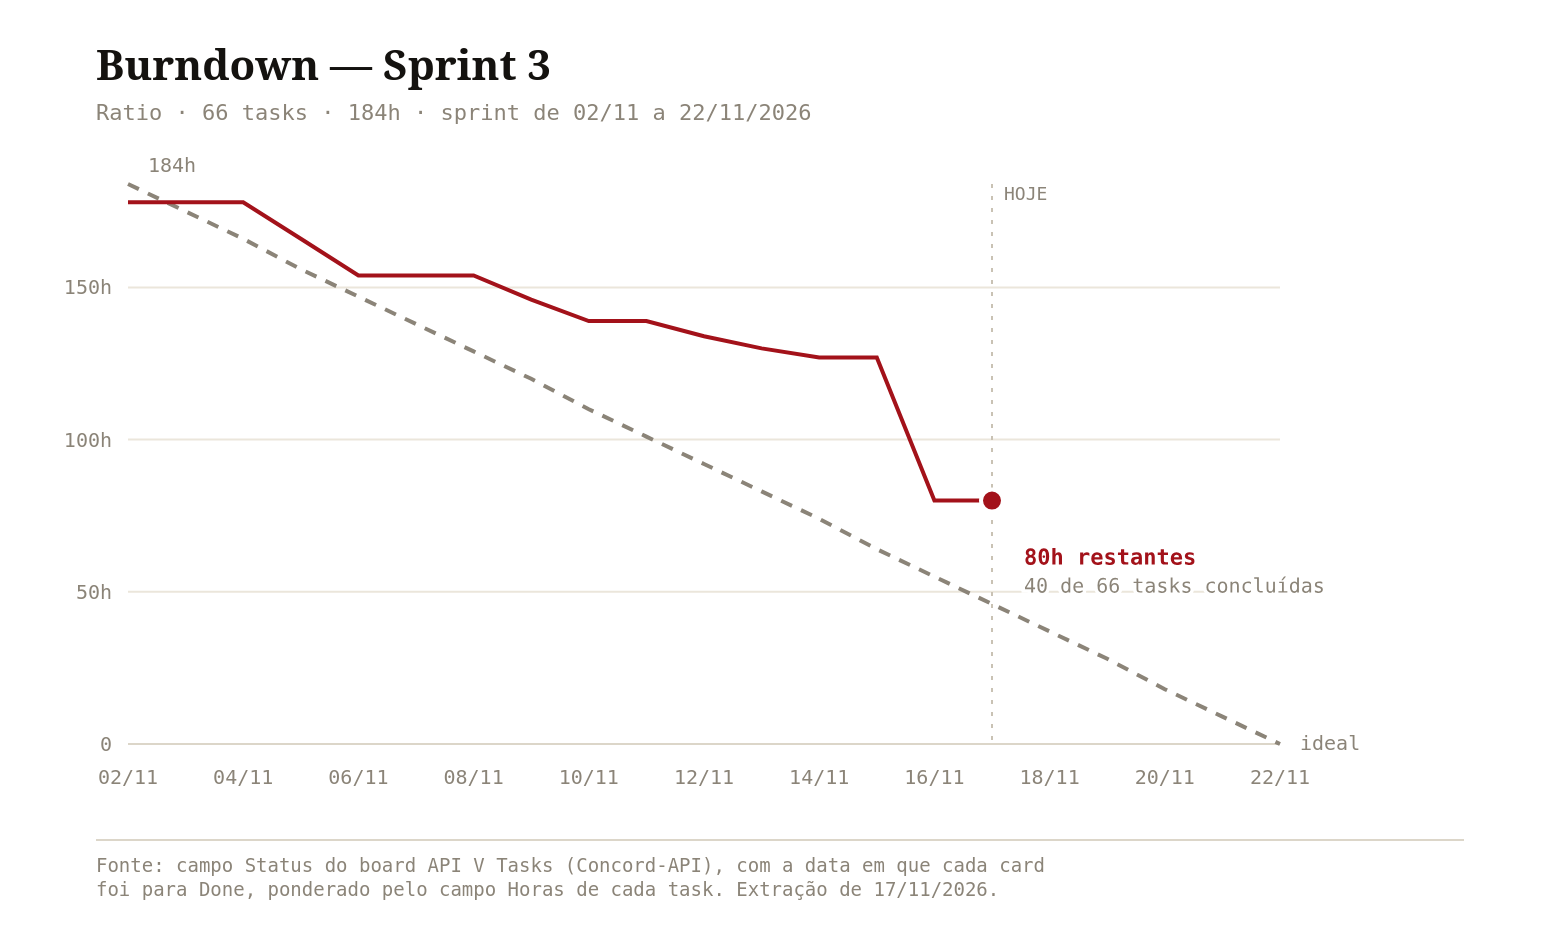
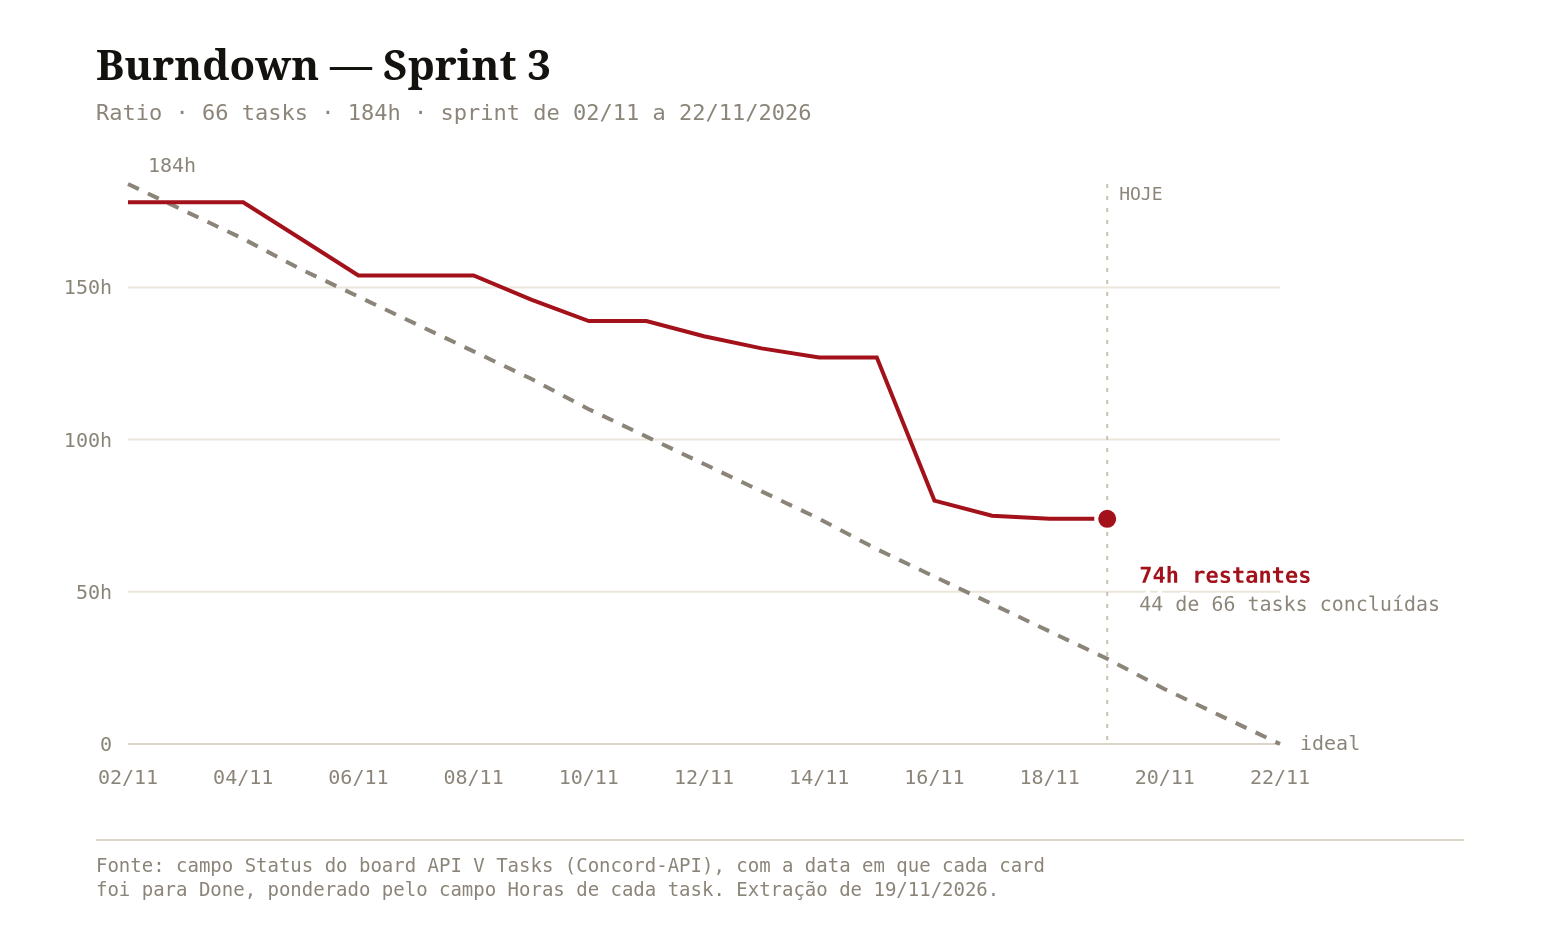
docs: update the Sprint 3 backlog from the board

diff --git a/sprint3/sprint-backlog_pt.md b/sprint3/sprint-backlog_pt.md
@@ -2,7 +2,7 @@
 
 **Janela:** 02/11 a 22/11/2026
 
-**Board:** [GitHub Project](https://github.com/orgs/Concord-API/projects/5) · snapshot de 17/11/2026
+**Board:** [GitHub Project](https://github.com/orgs/Concord-API/projects/5) · snapshot de 19/11/2026
 
 **Definições:** [Definition of Ready](../Docs/pt_br/Scrum/definition-of-ready.md) · [Definition of Done](../Docs/pt_br/Scrum/definition-of-done.md)
 
@@ -34,8 +34,8 @@ Stories planejadas na sprint, mas que podem passar para a próxima se não houve
 | --- | ---: |
 | Stories (meta / fora da meta) | 4 / 2 |
 | Story points (meta / total) | 26 / 34 |
-| Tasks (concluídas / total) | 40 / 66 |
-| Horas (feitas / total) | 104h / 184h |
+| Tasks (concluídas / total) | 44 / 66 |
+| Horas (feitas / total) | 110h / 184h |
 | Tasks em stories | 39 (99h) |
 | Technical Foundation | 2 (10h) |
 | Entrega e processo | 25 (75h) |
@@ -44,10 +44,10 @@ Stories planejadas na sprint, mas que podem passar para a próxima se não houve
 
 | Responsável | Tasks | Horas | Concluído |
 | --- | ---: | ---: | ---: |
-| sem responsável | 18 | 53h | 0h |
 | thiagosabreu | 19 | 49h | 37h |
-| JoaoBaranov | 8 | 29h | 29h |
-| IsaacOliveiraSouza | 9 | 24h | 19h |
+| sem responsável | 14 | 47h | 0h |
+| JoaoBaranov | 10 | 31h | 31h |
+| IsaacOliveiraSouza | 11 | 28h | 23h |
 | RichardCordeiro | 7 | 15h | 15h |
 | vp-p | 2 | 7h | 0h |
 | joaoandrade17 | 2 | 4h | 1h |
@@ -60,15 +60,15 @@ Stories planejadas na sprint, mas que podem passar para a próxima se não houve
 | ETL | 51h | 14h |
 | DevOps | 49h | 36h |
 | Backend | 30h | 27h |
-| Frontend | 24h | 14h |
-| Test | 21h | 12h |
+| Frontend | 24h | 19h |
+| Test | 21h | 13h |
 | Docs | 9h | 1h |
 
 ## Burndown
 
 ![Burndown da Sprint 3](burndown.png)
 
-Horas restantes por dia, a partir do campo `Status` do board e das horas de cada task. Situação em 17/11/2026.
+Horas restantes por dia, a partir do campo `Status` do board e das horas de cada task. Situação em 19/11/2026.
 
 ## Stories e tasks
 
@@ -106,7 +106,7 @@ Issue: [#329](https://github.com/Concord-API/API-5/issues/329)
 
 ### US-40 — Como usuário, quero ver os julgados que compõem a jurisprudência do tema, com tribunal, órgão julgador, data, ementa e link para a página do tribunal, no mesmo padrão de tabela dos processos, para ler como os tribunais decidiram e não apenas contar os casos
 
-_8 SP · Should · A fazer · 4/8 tasks · 23h_
+_8 SP · Should · A fazer · 6/8 tasks · 23h_
 
 Issue: [#330](https://github.com/Concord-API/API-5/issues/330)
 
@@ -117,13 +117,13 @@ Issue: [#330](https://github.com/Concord-API/API-5/issues/330)
 | [40.3](https://github.com/Concord-API/API-5/issues/356) | Tie each ruling to the topic by CNJ number or by declared similarity | ETL | — | 4h | A fazer |
 | [40.4](https://github.com/Concord-API/API-5/issues/357) | Expose the topic's rulings with "N of M", source and extraction date | Backend | JoaoBaranov | 3h | Concluído |
 | [40.5](https://github.com/Concord-API/API-5/issues/358) | Build the rulings table in the Base analítica tab | Frontend | JoaoBaranov | 3h | Concluído |
-| [40.6](https://github.com/Concord-API/API-5/issues/359) | Explain in the block why a court has no rulings | Frontend | — | 1h | A fazer |
-| [40.7](https://github.com/Concord-API/API-5/issues/360) | Test the rulings ordering and the court without a source | Test | — | 1h | A fazer |
+| [40.6](https://github.com/Concord-API/API-5/issues/359) | Explain in the block why a court has no rulings | Frontend | JoaoBaranov | 1h | Concluído |
+| [40.7](https://github.com/Concord-API/API-5/issues/360) | Test the rulings ordering and the court without a source | Test | JoaoBaranov | 1h | Concluído |
 | [40.8](https://github.com/Concord-API/API-5/issues/361) | Document the rulings source in the ETL docs | Docs | IsaacOliveiraSouza | 1h | Em andamento |
 
 ### US-41 — Como usuário, quero ver os precedentes qualificados relacionados ao tema — súmulas, temas repetitivos, IRDR, IAC e repercussão geral —, com tipo, número, tribunal, tese e situação, para saber o que vincula os tribunais neste tema e não apenas como eles têm decidido
 
-_8 SP · Should · A fazer · 2/8 tasks · 21h_
+_8 SP · Should · A fazer · 4/8 tasks · 21h_
 
 Issue: [#331](https://github.com/Concord-API/API-5/issues/331)
 
@@ -133,8 +133,8 @@ Issue: [#331](https://github.com/Concord-API/API-5/issues/331)
 | [41.2](https://github.com/Concord-API/API-5/issues/363) | Add type, status date, suspension and leading cases to the precedent dimension | Backend | thiagosabreu | 3h | Concluído |
 | [41.3](https://github.com/Concord-API/API-5/issues/364) | Tie each precedent to the topic by similarity over question and thesis | ETL | — | 4h | A fazer |
 | [41.4](https://github.com/Concord-API/API-5/issues/365) | Expose the topic's related precedents | Backend | thiagosabreu | 2h | Concluído |
-| [41.5](https://github.com/Concord-API/API-5/issues/366) | Build the precedents block with cancelled ones marked | Frontend | — | 3h | A fazer |
-| [41.6](https://github.com/Concord-API/API-5/issues/367) | Explain in the block why a topic has no related precedent | Frontend | — | 1h | A fazer |
+| [41.5](https://github.com/Concord-API/API-5/issues/366) | Build the precedents block with cancelled ones marked | Frontend | IsaacOliveiraSouza | 3h | Concluído |
+| [41.6](https://github.com/Concord-API/API-5/issues/367) | Explain in the block why a topic has no related precedent | Frontend | IsaacOliveiraSouza | 1h | Concluído |
 | [41.7](https://github.com/Concord-API/API-5/issues/368) | Test that labour and electoral precedents are not loaded | Test | — | 1h | A fazer |
 | [41.8](https://github.com/Concord-API/API-5/issues/369) | Document the precedents source in the ETL docs | Docs | — | 1h | A fazer |
 

diff --git a/sprint3/sprint-backlog.md b/sprint3/sprint-backlog.md
@@ -2,7 +2,7 @@
 
 **Window:** Nov 2 to Nov 22, 2026
 
-**Board:** [GitHub Project](https://github.com/orgs/Concord-API/projects/5) · snapshot of Nov 17, 2026
+**Board:** [GitHub Project](https://github.com/orgs/Concord-API/projects/5) · snapshot of Nov 19, 2026
 
 **Definitions:** [Definition of Ready](../Docs/Scrum/definition-of-ready.md) · [Definition of Done](../Docs/Scrum/definition-of-done.md)
 
@@ -34,8 +34,8 @@ Stories planned in the sprint that can move to the next one if there is not enou
 | --- | ---: |
 | Stories (goal / outside the goal) | 4 / 2 |
 | Story points (goal / total) | 26 / 34 |
-| Tasks (done / total) | 40 / 66 |
-| Hours (done / total) | 104h / 184h |
+| Tasks (done / total) | 44 / 66 |
+| Hours (done / total) | 110h / 184h |
 | Tasks in stories | 39 (99h) |
 | Technical Foundation | 2 (10h) |
 | Delivery and process | 25 (75h) |
@@ -44,10 +44,10 @@ Stories planned in the sprint that can move to the next one if there is not enou
 
 | Assignee | Tasks | Hours | Done |
 | --- | ---: | ---: | ---: |
-| unassigned | 18 | 53h | 0h |
 | thiagosabreu | 19 | 49h | 37h |
-| JoaoBaranov | 8 | 29h | 29h |
-| IsaacOliveiraSouza | 9 | 24h | 19h |
+| unassigned | 14 | 47h | 0h |
+| JoaoBaranov | 10 | 31h | 31h |
+| IsaacOliveiraSouza | 11 | 28h | 23h |
 | RichardCordeiro | 7 | 15h | 15h |
 | vp-p | 2 | 7h | 0h |
 | joaoandrade17 | 2 | 4h | 1h |
@@ -60,15 +60,15 @@ Stories planned in the sprint that can move to the next one if there is not enou
 | ETL | 51h | 14h |
 | DevOps | 49h | 36h |
 | Backend | 30h | 27h |
-| Frontend | 24h | 14h |
-| Test | 21h | 12h |
+| Frontend | 24h | 19h |
+| Test | 21h | 13h |
 | Docs | 9h | 1h |
 
 ## Burndown
 
 ![Sprint 3 burndown](burndown.png)
 
-Remaining hours per day, from the board's `Status` field and each task's hours. Status on Nov 17, 2026.
+Remaining hours per day, from the board's `Status` field and each task's hours. Status on Nov 19, 2026.
 
 ## Stories and tasks
 
@@ -106,7 +106,7 @@ Issue: [#329](https://github.com/Concord-API/API-5/issues/329)
 
 ### US-40 — As a user, I want to see the rulings that make up the topic's case law, with court, judging body, date, summary and a link to the court's page, in the same table pattern as the cases, so that I can read how the courts decided and not only count the cases
 
-_8 SP · Should · To do · 4/8 tasks · 23h_
+_8 SP · Should · To do · 6/8 tasks · 23h_
 
 Issue: [#330](https://github.com/Concord-API/API-5/issues/330)
 
@@ -117,13 +117,13 @@ Issue: [#330](https://github.com/Concord-API/API-5/issues/330)
 | [40.3](https://github.com/Concord-API/API-5/issues/356) | Tie each ruling to the topic by CNJ number or by declared similarity | ETL | — | 4h | To do |
 | [40.4](https://github.com/Concord-API/API-5/issues/357) | Expose the topic's rulings with "N of M", source and extraction date | Backend | JoaoBaranov | 3h | Done |
 | [40.5](https://github.com/Concord-API/API-5/issues/358) | Build the rulings table in the Base analítica tab | Frontend | JoaoBaranov | 3h | Done |
-| [40.6](https://github.com/Concord-API/API-5/issues/359) | Explain in the block why a court has no rulings | Frontend | — | 1h | To do |
-| [40.7](https://github.com/Concord-API/API-5/issues/360) | Test the rulings ordering and the court without a source | Test | — | 1h | To do |
+| [40.6](https://github.com/Concord-API/API-5/issues/359) | Explain in the block why a court has no rulings | Frontend | JoaoBaranov | 1h | Done |
+| [40.7](https://github.com/Concord-API/API-5/issues/360) | Test the rulings ordering and the court without a source | Test | JoaoBaranov | 1h | Done |
 | [40.8](https://github.com/Concord-API/API-5/issues/361) | Document the rulings source in the ETL docs | Docs | IsaacOliveiraSouza | 1h | In progress |
 
 ### US-41 — As a user, I want to see the qualified precedents related to the topic — súmulas, temas repetitivos, IRDR, IAC and repercussão geral — with type, number, court, thesis and status, so that I know what binds the courts on this topic and not only how they have decided
 
-_8 SP · Should · To do · 2/8 tasks · 21h_
+_8 SP · Should · To do · 4/8 tasks · 21h_
 
 Issue: [#331](https://github.com/Concord-API/API-5/issues/331)
 
@@ -133,8 +133,8 @@ Issue: [#331](https://github.com/Concord-API/API-5/issues/331)
 | [41.2](https://github.com/Concord-API/API-5/issues/363) | Add type, status date, suspension and leading cases to the precedent dimension | Backend | thiagosabreu | 3h | Done |
 | [41.3](https://github.com/Concord-API/API-5/issues/364) | Tie each precedent to the topic by similarity over question and thesis | ETL | — | 4h | To do |
 | [41.4](https://github.com/Concord-API/API-5/issues/365) | Expose the topic's related precedents | Backend | thiagosabreu | 2h | Done |
-| [41.5](https://github.com/Concord-API/API-5/issues/366) | Build the precedents block with cancelled ones marked | Frontend | — | 3h | To do |
-| [41.6](https://github.com/Concord-API/API-5/issues/367) | Explain in the block why a topic has no related precedent | Frontend | — | 1h | To do |
+| [41.5](https://github.com/Concord-API/API-5/issues/366) | Build the precedents block with cancelled ones marked | Frontend | IsaacOliveiraSouza | 3h | Done |
+| [41.6](https://github.com/Concord-API/API-5/issues/367) | Explain in the block why a topic has no related precedent | Frontend | IsaacOliveiraSouza | 1h | Done |
 | [41.7](https://github.com/Concord-API/API-5/issues/368) | Test that labour and electoral precedents are not loaded | Test | — | 1h | To do |
 | [41.8](https://github.com/Concord-API/API-5/issues/369) | Document the precedents source in the ETL docs | Docs | — | 1h | To do |
 
